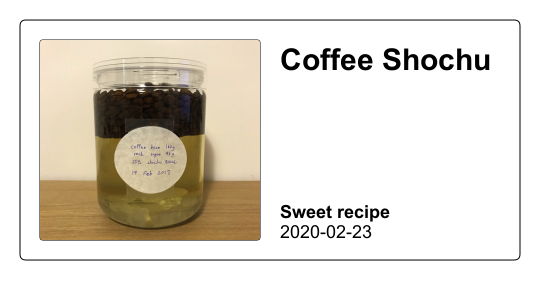
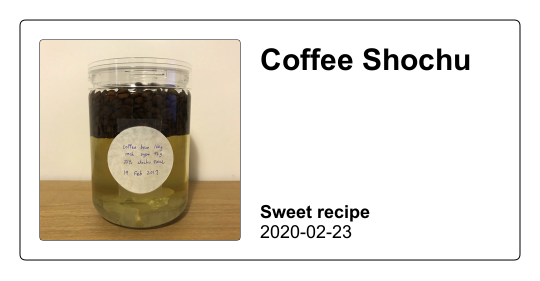
update no image recipe style

Changed region(s): [[0.1481, 0.1993, 0.4148, 0.8256], [0.4444, 0.1139, 0.9185, 0.8826]]

diff --git a/pages/index.js b/pages/index.js
@@ -73,10 +73,7 @@ const RecipeListLink = styled.a`
       left: 0px;
       width: 100%;
       height: 100%;
-      background: ${({ hrbg }) =>
-        hrbg
-          ? `none`
-          : "repeating-linear-gradient(45deg,#b2b2b2, #b2b2b2 10px,#ccc 10px,#ccc 20px)"};
+      background: "none";
       background-repeat: no-repeat;
       background-size: cover;
       background-position: center;
@@ -91,12 +88,7 @@ const RecipeListLink = styled.a`
     width: 100%;
     display: block;
     opacity: 1;
-    background: linear-gradient(
-      180deg,
-      rgba(196, 196, 196, 0) 0%,
-      rgba(77, 77, 77, 0.567708) 56.77%,
-      #646464 100%
-    );
+    background: transparent;
     color: #fff;
     z-index: 10;
     transition: opacity 200ms ease;
@@ -116,6 +108,23 @@ const RecipeListLink = styled.a`
       display: none;
       -webkit-line-clamp: 3;
       -webkit-box-orient: vertical;
+    }
+  }
+
+  &.noimg {
+    .recipe__pic {
+      &::after {
+      }
+    }
+    .recipe__name {
+      .name {
+        color: var(--primary_text);
+        font-size: 20px;
+        line-height: 20px;
+      }
+      .remark {
+        color: var(--primary_text);
+      }
     }
   }
 
@@ -175,6 +184,15 @@ const RecipeListLink = styled.a`
       opacity: 0;
       .remark {
         display: -webkit-box;
+      }
+    }
+    &.noimg {
+      .recipe__name {
+        opacity: 1;
+        .name {
+          font-size: 24px;
+          line-height: 24px;
+        }
       }
     }
     &:hover {
@@ -266,9 +284,12 @@ const Home = ({ allRecipes }) => {
     <>
       <SEO title="Recipe Blog" type="website" image={"/screencap.png"} />
       {transitions.map(({ item, key, props }) => (
-        <Flipper flipKey={`${query}-${type}-${filteredAry.length.toString()}`}>
+        <Flipper
+          key="first_flipper"
+          flipKey={`${query}-${type}-${filteredAry.length.toString()}`}
+        >
           <RecipeList style={props} key={key}>
-            {filteredAry.map((item, key) => (
+            {filteredAry.map((item) => (
               <Flipped
                 key={item.slug}
                 flipId={item.slug}
@@ -276,15 +297,14 @@ const Home = ({ allRecipes }) => {
                 onExit={onExit}
               >
                 {(flippedProps) => (
-                  <RecipeListItem hrbg={item.image && item.image[0]}>
+                  <RecipeListItem>
                     <Link
                       href={`/recipe/[slug]`}
                       as={`/recipe/${item.slug}`}
                       passHref
-                      key={key}
                     >
                       <RecipeListLink
-                        key={item.slug}
+                        className={item.image && item.image[0] ? "" : "noimg"}
                         data-status={item.status}
                         {...flippedProps}
                       >

diff --git a/pages/recipe/[slug].js b/pages/recipe/[slug].js
@@ -70,7 +70,7 @@ const RecipeContainer = styled(animated.div)`
   .mkd {
     h2,
     h3 {
-      font-weight: 600;
+      font-weight: bold;
       font-size: 18px;
       line-height: 22px;
       letter-spacing: 2px;
@@ -266,7 +266,7 @@ const IngredientsBlk = styled.div`
   margin: 20px 0 35px;
   max-width: 600px;
   > span {
-    font-weight: 600;
+    font-weight: bold;
     font-size: 18px;
     line-height: 22px;
     letter-spacing: 2px;
@@ -418,9 +418,8 @@ export default function Post({ post, morePosts, preview, allRecipes }) {
                   post.image &&
                   post.image.map((o, index) => {
                     return (
-                      <ImageFrame data-status={status}>
+                      <ImageFrame data-status={status} key={index}>
                         <Image
-                          key={index}
                           src={o}
                           layout="fill"
                           objectFit="cover"
@@ -574,18 +573,18 @@ export async function getStaticProps({ params }) {
     canvasTxt.fontWeight = "bold";
     canvasTxt.align = "left";
     canvasTxt.vAlign = "top";
-    canvasTxt.drawText(context, txt, 280, 40, 230, 90);
+    canvasTxt.drawText(context, txt, 260, 40, 230, 90);
 
     canvasTxt.fontSize = 18;
     canvasTxt.fontWeight = "regular";
-    canvasTxt.drawText(context, post.date, 280, 220, 230, 200);
+    canvasTxt.drawText(context, post.date, 260, 220, 230, 200);
 
     canvasTxt.fontSize = 18;
     canvasTxt.fontWeight = "bold";
     canvasTxt.drawText(
       context,
       `${capitalizeFirstLetter(post.type)} recipe`,
-      280,
+      260,
       200,
       230,
       200
@@ -594,11 +593,11 @@ export async function getStaticProps({ params }) {
     context.fillStyle = "transparent";
     roundRect(context, 20, 20, 500, 240, 6, "#000", true);
 
-    roundRect(context, 40, 40, 220, 200, 3, "#fff", true);
+    roundRect(context, 40, 40, 200, 200, 3, "#fff", true);
     context.clip();
 
     loadImage(`./public/${post.image[0]}`).then((image) => {
-      context.drawImage(image, 40, 40, 220, 200);
+      context.drawImage(image, 40, 40, 200, 200);
       const buffer = canvas.toBuffer("image/png");
 
       fs.writeFileSync(

diff --git a/components/header.js b/components/header.js
@@ -22,7 +22,7 @@ const Container = styled.nav`
     color: var(--secondary_text);
   }
   h2 {
-    font-weight: 500;
+    font-weight: bold;
     font-size: 14px;
     line-height: 17px;
     color: var(--primary_text);
@@ -39,14 +39,10 @@ const Container = styled.nav`
       }
     }
   }
-  .selector {
-    ul {
-      li {
-        cursor: pointer;
-        &.active {
-          color: var(--primary_text);
-        }
-      }
+  .selector ul li {
+    cursor: pointer;
+    &.active {
+      color: var(--primary_text);
     }
   }
   .head_ctrl {
@@ -75,7 +71,8 @@ const Container = styled.nav`
 
   @media screen and (min-width: 961px) {
     grid-area: auto / 1 / auto / 4;
-    position: fixed;
+    position: absolute;
+    top: 0;
     .nav_ctrl {
       display: grid;
       row-gap: 40px;
@@ -91,23 +88,6 @@ const Container = styled.nav`
         margin: 6px 0;
       }
     }
-    /* > div {
-      flex-direction: column;
-      align-items: flex-start;
-      > a {
-        order: 1;
-        margin: 0 0 10px 0;
-      }
-      [class*="SelectorContainer"] {
-        order: 3;
-      }
-    }
-    .react-toggle {
-      order: 2;
-      position: absolute;
-      top: 37px;
-      right: 0;
-    } */
   }
 `;
 
@@ -278,7 +258,7 @@ const Header = () => {
           {transitions.map(({ item, key, props }) => (
             <ul style={props} key={key}>
               {recipes.map((o) => (
-                <li>
+                <li key={o.slug}>
                   <Link href={`/recipe/${o.slug}`} passHref key={o.slug}>
                     <a
                       onClick={() => {

diff --git a/pages/_document.js b/pages/_document.js
@@ -32,7 +32,6 @@ export default class MyDocument extends Document {
       <Html lang="en">
         <Head>
           <meta charset="UTF-8" />
-          <link rel="preconnect" href="https://fonts.gstatic.com" />
           <link rel="icon" type="image/png" href="/icon.png" />
           <script
             async
@@ -61,12 +60,6 @@ export default class MyDocument extends Document {
                 font-family: "Inter";
                 src: url("/fonts/Inter-Medium.woff2");
                 font-weight: 500;
-                font-display: fallback;
-              }
-              @font-face {
-                font-family: "Inter";
-                src: url("/fonts/Inter-SemiBold.woff2");
-                font-weight: 600;
                 font-display: fallback;
               }
               @font-face {

diff --git a/components/seo.js b/components/seo.js
@@ -72,7 +72,9 @@ function SEO({ description, lang, meta, title, image, url, type }) {
   return (
     <Head>
       <title>{`${title} | ${siteMetadata.title}`}</title>
-      {metas.map((o) => React.createElement("meta", { ...o }))}
+      {metas.map((o, i) =>
+        React.createElement("meta", { ...o, key: `${i}${o.name}` })
+      )}
     </Head>
   );
 }

diff --git a/_posts/jp-chili-oil.md b/_posts/jp-chili-oil.md
@@ -6,7 +6,7 @@ image:
   [
     "/assets/recipe/jp-chili-oil-1.jpg",
     "/assets/recipe/jp-chili-oil-2.jpg",
-    "/assets/recipe/jp-chili-oil-3.ipg",
+    "/assets/recipe/jp-chili-oil-3.jpg",
     "/assets/recipe/jp-chili-oil-4.jpg",
   ]
 date: "2020-10-04"
